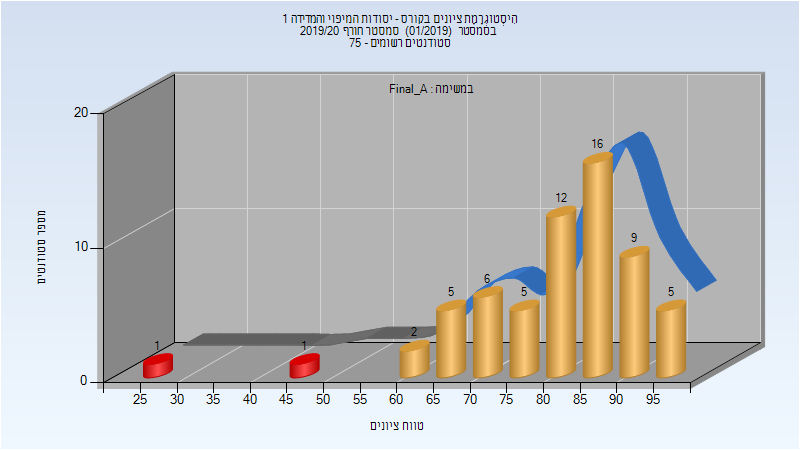
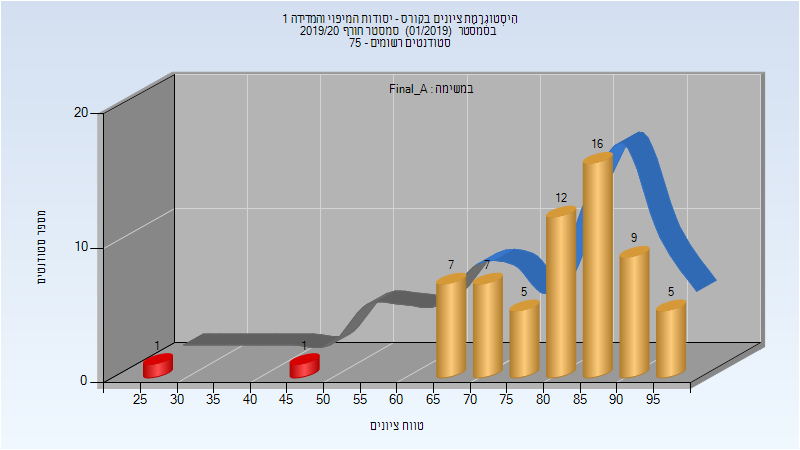
Deploy michael-maltsev/technion-histograms to github.com/michael-maltsev/technion-histograms.git:gh-pages

Changed region(s): [[0.375, 0.5289, 0.6875, 0.84]]

diff --git a/014841/index.html b/014841/index.html
@@ -926,13 +926,13 @@
 </thead>
 <tbody>
 <tr>
-<td>62</td>
-<td>60/2</td>
+<td>63</td>
+<td>61/2</td>
 <td>97</td>
 <td>27</td>
 <td>98</td>
-<td>81.387</td>
-<td>84</td>
+<td>81.302</td>
+<td>83</td>
 </tr>
 </tbody>
 </table>
@@ -957,8 +957,8 @@
 <td>77</td>
 <td>48</td>
 <td>94</td>
-<td>71.308</td>
-<td>72</td>
+<td>71.769</td>
+<td>73</td>
 </tr>
 </tbody>
 </table>

diff --git a/014841/README.md b/014841/README.md
@@ -274,7 +274,7 @@
 
 | סטודנטים | עברו/נכשלו | אחוז עוברים | ציון מינימלי | ציון מקסימלי | ממוצע | חציון |
 | ---- | ---- | ---- | ---- | ---- | ---- | ---- |
-| 62 | 60/2 | 97 | 27 | 98 | 81.387 | 84 |
+| 63 | 61/2 | 97 | 27 | 98 | 81.302 | 83 |
 
 ### סופי מועד ב'
 
@@ -282,7 +282,7 @@
 
 | סטודנטים | עברו/נכשלו | אחוז עוברים | ציון מינימלי | ציון מקסימלי | ממוצע | חציון |
 | ---- | ---- | ---- | ---- | ---- | ---- | ---- |
-| 13 | 10/3 | 77 | 48 | 94 | 71.308 | 72 |
+| 13 | 10/3 | 77 | 48 | 94 | 71.769 | 73 |
 
 ### סופי
 
